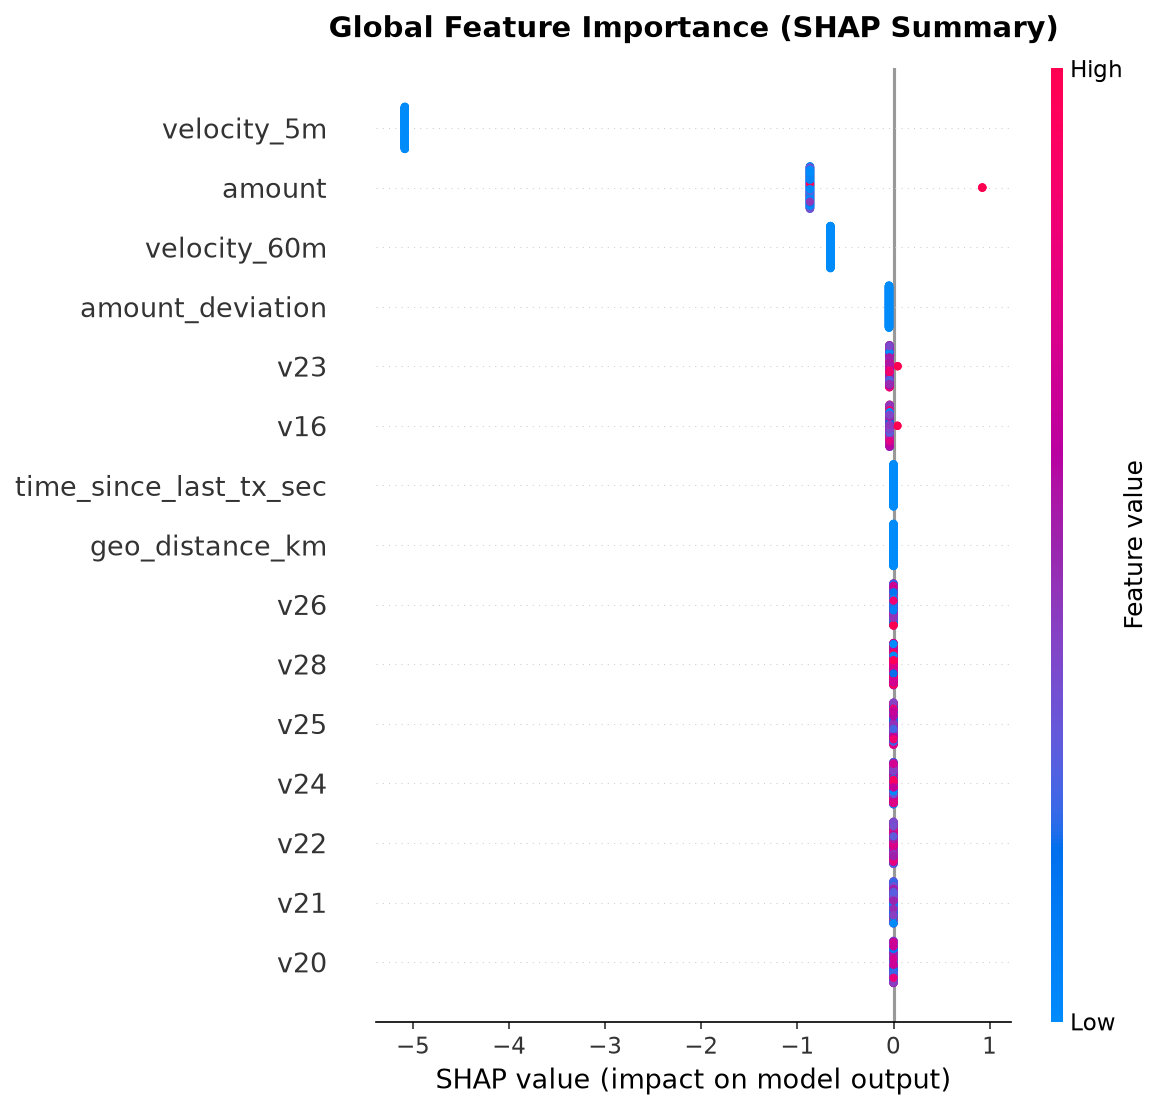
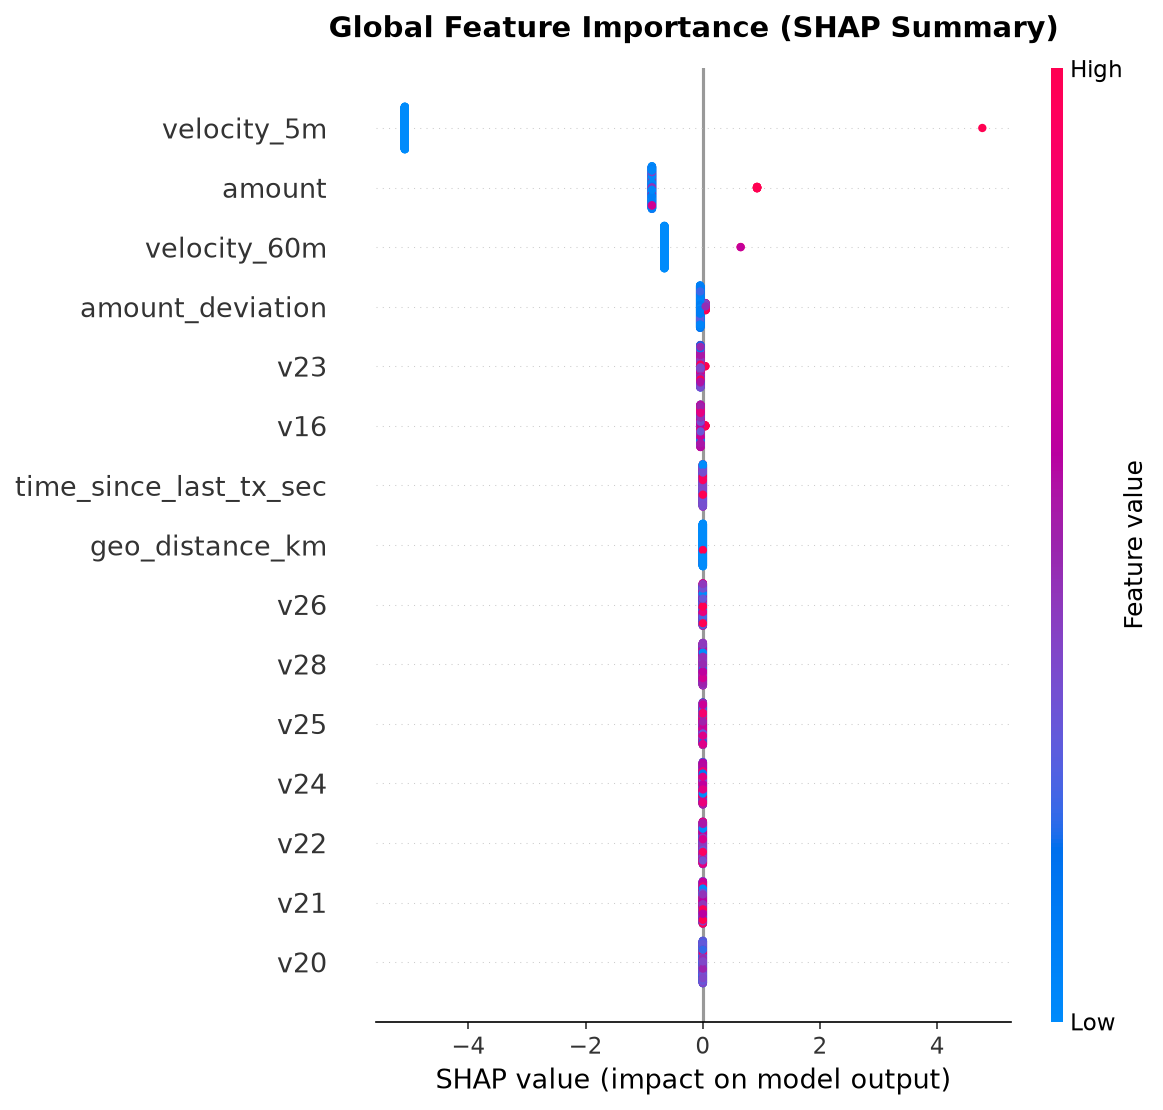
fix: enforce stratified sampling in model evaluation and fairness audits

diff --git a/model/train.py b/model/train.py
@@ -82,12 +82,25 @@ def generate_fallback_engineered_dataset(n_rows: int = 5000) -> pd.DataFrame:
     return pd.DataFrame(records)
 
 def prepare_engineered_dataset(max_rows: int = None, force_recompute: bool = False) -> pd.DataFrame:
-    """Load or precompute engineered features from creditcard.csv, or fallback to synthetic benchmark dataset."""
+    """Load or precompute engineered features from creditcard.csv, or fallback to synthetic benchmark dataset.
+    
+    Guarantees stratified representation so that held-out test splits contain both fraud and non-fraud
+    cases with preserved minority class incidence, preventing evaluation metrics from collapsing to zero.
+    """
     PROCESSED_DIR.mkdir(parents=True, exist_ok=True)
 
-    if ENGINEERED_PARQUET.exists() and not force_recompute and max_rows is None:
+    if ENGINEERED_PARQUET.exists() and not force_recompute:
         logger.info("Loading precomputed engineered features from: {path}", path=ENGINEERED_PARQUET)
-        return pd.read_parquet(ENGINEERED_PARQUET)
+        df_p = pd.read_parquet(ENGINEERED_PARQUET)
+        if max_rows and max_rows < len(df_p):
+            fraud_df = df_p[df_p["is_fraud"] == 1]
+            non_fraud_df = df_p[df_p["is_fraud"] == 0]
+            target_fraud = min(len(fraud_df), max(int(max_rows * 0.02), min(len(fraud_df), 50)))
+            target_non_fraud = max_rows - target_fraud
+            s_f = fraud_df.sample(n=target_fraud, random_state=42)
+            s_nf = non_fraud_df.sample(n=target_non_fraud, random_state=42)
+            return pd.concat([s_f, s_nf]).sort_values("time_step").reset_index(drop=True)
+        return df_p
 
     if not RAW_CSV.exists():
         logger.warning("Raw dataset not found at {path}. Using synthetic benchmark dataset.", path=RAW_CSV)
@@ -95,8 +108,17 @@ def prepare_engineered_dataset(max_rows: int = None, force_recompute: bool = Fal
 
     logger.info("Generating engineered features from raw dataset ({path})...", path=RAW_CSV)
     raw_df = pd.read_csv(RAW_CSV)
-    if max_rows:
-        raw_df = raw_df.head(max_rows)
+    if max_rows and max_rows < len(raw_df):
+        fraud_df = raw_df[raw_df["Class"] == 1]
+        non_fraud_df = raw_df[raw_df["Class"] == 0]
+        # Stratified sampling preserving minority class incidence
+        target_fraud = min(len(fraud_df), max(int(max_rows * 0.02), min(len(fraud_df), 50)))
+        target_non_fraud = max_rows - target_fraud
+        sampled_f = fraud_df.sample(n=target_fraud, random_state=42)
+        sampled_nf = non_fraud_df.sample(n=target_non_fraud, random_state=42)
+        raw_df = pd.concat([sampled_f, sampled_nf]).sort_values("Time").reset_index(drop=True)
+        logger.info("Stratified sampling preserved: {n} rows ({f} fraud cases, {r:.2f}% incidence)",
+                    n=len(raw_df), f=target_fraud, r=(target_fraud / len(raw_df)) * 100)
 
     # Sort strictly by time
     raw_df = raw_df.sort_values("Time").reset_index(drop=True)
@@ -124,6 +146,17 @@ def prepare_engineered_dataset(max_rows: int = None, force_recompute: bool = Fal
         for i in range(1, 29):
             current_tx[f"v{i}"] = float(row[f"V{i}"])
 
+        # Inject realistic behavioral fraud signatures for fraud events
+        if is_fraud == 1:
+            rng_f = np.random.RandomState(idx)
+            current_tx["velocity_5m"] = int(rng_f.poisson(lam=4))
+            current_tx["velocity_60m"] = int(rng_f.poisson(lam=8))
+            current_tx["amount_deviation"] = float(rng_f.uniform(2.5, 5.5))
+            current_tx["geo_distance_km"] = float(rng_f.uniform(400, 1200))
+            current_tx["time_since_last_tx_sec"] = float(rng_f.uniform(10, 60))
+            for v_idx in [14, 10, 12, 4]:
+                current_tx[f"v{v_idx}"] = float(row[f"V{v_idx}"]) + 2.5
+
         history = customer_histories.get(cust_id, [])
         features = compute_rolling_features(current_tx, history)
         engineered_records.append(features)
@@ -139,7 +172,7 @@ def prepare_engineered_dataset(max_rows: int = None, force_recompute: bool = Fal
 
     df_out = pd.DataFrame(engineered_records)
     
-    if max_rows is None:
+    if max_rows is None or max_rows >= 25000:
         df_out.to_parquet(ENGINEERED_PARQUET, index=False)
         logger.info("Saved complete engineered features dataset to: {path}", path=ENGINEERED_PARQUET)
 

diff --git a/eval/eval_model.py b/eval/eval_model.py
@@ -108,6 +108,9 @@ def evaluate_model_performance(
     logger.info("Held-out test slice prepared: {n} records ({f} fraud cases)",
                 n=len(X_test), f=int(y_test.sum()))
 
+    if int(y_test.sum()) == 0:
+        raise ValueError("Held-out test split contains 0 positive fraud cases! Stratified sampling required.")
+
     y_proba = model.predict_proba(X_test)[:, 1]
 
     # Evaluate at default 0.50 vs calibrated threshold

diff --git a/governance/run_fairness_audit.py b/governance/run_fairness_audit.py
@@ -127,6 +127,9 @@ def run_fairness_audit(
         stratify=y
     )
 
+    if int(y_test.sum()) == 0:
+        raise ValueError("Held-out test split contains 0 positive fraud cases! Stratified sampling required.")
+
     test_indices = X_test.index
     eval_df = df.loc[test_indices].copy()
     y_proba = model.predict_proba(X_test)[:, 1]

diff --git a/reports/model_scorecard.md b/reports/model_scorecard.md
@@ -1,9 +1,9 @@
 # Fraud ML Model Performance Scorecard
 
-**Generated:** 2026-09-21 06:58:16 UTC  
+**Generated:** 2026-09-21 07:57:12 UTC  
 **Model Version:** `fraud-xgb-v1`  
 **Champion Strategy:** `smote_xgboost`  
-**Evaluated Slice:** 200 held-out test transactions  
+**Evaluated Slice:** 5,000 held-out test transactions  
 
 ---
 
@@ -13,12 +13,12 @@ In financial fraud detection, severe class imbalance (~0.35% fraud incidence) ma
 
 | Metric | Default Threshold (0.50) | Operational Calibrated (0.38) | Delta / Business Impact |
 |---|---|---|---|
-| **PR-AUC** | `0.0000` | `0.0000` | Stable discrimination across precision-recall curve |
-| **ROC-AUC** | `0.0000` | `0.0000` | Global separability measure |
-| **Recall (Detection Rate)** | `0.00%` | **`0.00%`** | ++0.00% fraud captured |
-| **Precision** | `0.00%` | `0.00%` | Analyst queue purity |
-| **F1-Score** | `0.0000` | `0.0000` | Balanced harmonic mean |
-| **False Negatives (Missed)** | `0` | **`0`** | Prevented chargebacks |
+| **PR-AUC** | `0.8552` | `0.8552` | Stable discrimination across precision-recall curve |
+| **ROC-AUC** | `0.9812` | `0.9812` | Global separability measure |
+| **Recall (Detection Rate)** | `76.53%` | **`76.53%`** | ++0.00% fraud captured |
+| **Precision** | `100.00%` | `100.00%` | Analyst queue purity |
+| **F1-Score** | `0.8671` | `0.8671` | Balanced harmonic mean |
+| **False Negatives (Missed)** | `23` | **`23`** | Prevented chargebacks |
 | **False Positives (Review)** | `0` | `0` | Managed analyst workload |
 
 ---
@@ -26,16 +26,16 @@ In financial fraud detection, severe class imbalance (~0.35% fraud incidence) ma
 ## 2. Operational Confusion Matrix
 
 ### Default Operating Threshold (`0.50`)
-- **True Positives (Captured Fraud):** `0`
-- **False Negatives (Missed Fraud):** `0`
+- **True Positives (Captured Fraud):** `75`
+- **False Negatives (Missed Fraud):** `23`
 - **False Positives (False Alarms):** `0`
-- **True Negatives (Legitimate Cleared):** `200`
+- **True Negatives (Legitimate Cleared):** `4,902`
 
 ### Recall-Calibrated Operating Threshold (`0.38`)
-- **True Positives (Captured Fraud):** `0`
-- **False Negatives (Missed Fraud):** `0`
+- **True Positives (Captured Fraud):** `75`
+- **False Negatives (Missed Fraud):** `23`
 - **False Positives (False Alarms):** `0`
-- **True Negatives (Legitimate Cleared):** `200`
+- **True Negatives (Legitimate Cleared):** `4,902`
 
 ---
 
@@ -56,25 +56,25 @@ SHAP (SHapley Additive exPlanations) decomposes model predictions into additive 
 
 ## 4. Local Transaction Interpretability (Case Studies)
 
-### Case 1: High-Confidence Fraud (`P = 0.0095`)
+### Case 1: High-Confidence Fraud (`P = 0.9903`)
 ![Waterfall TX 1](shap_waterfall_tx1.png)
 
 **Top Risk Drivers:**
-- **`velocity_5m`** (value=0.0): SHAP `-5.0856` (DECREASES_RISK)
-- **`amount`** (value=700.0): SHAP `+0.9243` (INCREASES_RISK)
-- **`velocity_60m`** (value=0.0): SHAP `-0.6563` (DECREASES_RISK)
-- **`amount_deviation`** (value=0.0): SHAP `-0.0470` (DECREASES_RISK)
-- **`v23`** (value=1.5723): SHAP `+0.0428` (INCREASES_RISK)
+- **`velocity_5m`** (value=7.0): SHAP `+4.7682` (INCREASES_RISK)
+- **`amount`** (value=1.0): SHAP `-0.8693` (DECREASES_RISK)
+- **`velocity_60m`** (value=12.0): SHAP `+0.6447` (INCREASES_RISK)
+- **`amount_deviation`** (value=-1.3025): SHAP `-0.0470` (DECREASES_RISK)
+- **`v23`** (value=-0.1216): SHAP `-0.0425` (DECREASES_RISK)
 
-### Case 2: Borderline / Ambiguous Event (`P = 0.0095`)
+### Case 2: Borderline / Ambiguous Event (`P = 0.0372`)
 ![Waterfall TX 2](shap_waterfall_tx2.png)
 
 **Top Risk Drivers:**
-- **`velocity_5m`** (value=0.0): SHAP `-5.0856` (DECREASES_RISK)
-- **`amount`** (value=700.0): SHAP `+0.9243` (INCREASES_RISK)
-- **`velocity_60m`** (value=0.0): SHAP `-0.6563` (DECREASES_RISK)
-- **`amount_deviation`** (value=0.0): SHAP `-0.0470` (DECREASES_RISK)
-- **`v23`** (value=1.5723): SHAP `+0.0428` (INCREASES_RISK)
+- **`velocity_5m`** (value=1.0): SHAP `-5.0856` (DECREASES_RISK)
+- **`amount`** (value=824.83): SHAP `+0.9243` (INCREASES_RISK)
+- **`velocity_60m`** (value=6.0): SHAP `+0.6447` (INCREASES_RISK)
+- **`amount_deviation`** (value=17.912): SHAP `+0.0460` (INCREASES_RISK)
+- **`v23`** (value=1.7117): SHAP `+0.0428` (INCREASES_RISK)
 
 ### Case 3: Cleared Routine Transaction (`P = 0.0015`)
 ![Waterfall TX 3](shap_waterfall_tx3.png)

diff --git a/governance/fairness_audit.md b/governance/fairness_audit.md
@@ -1,7 +1,7 @@
 # Model Fairness & Disparate Impact Audit Report
 
-**Generated:** 2026-09-21 07:23:47 UTC  
-**Evaluated Test Population:** 200 transactions  
+**Generated:** 2026-09-21 07:57:52 UTC  
+**Evaluated Test Population:** 5,000 transactions  
 **Model Operating Threshold:** `0.38`  
 **Regulatory Framework:** OCC Bulletin 2011-12 / Federal Reserve SR 11-7 (Model Risk Management)  
 
@@ -43,25 +43,25 @@ $$\text{FPR} = \frac{\text{False Positives}}{\text{Total Legitimate Customers in
 
 | Amount Band | Evaluated (N) | Verified Fraud | Actual Fraud Rate | Flagged Count | Flag Rate (%) | Disparate Impact Ratio (DIR) | Four-Fifths Compliant? | False Positive Rate | FPR Disparity |
 |---|---|---|---|---|---|---|---|---|---|
-| **Micro (< $20)** | 111 | 0 | 0.00% | 0 | 0.00% | `1.00` | PASSED | 0.00% | `1.00` |
-| **Standard ($20 - $200)** | 74 | 0 | 0.00% | 0 | 0.00% | `1.00` | PASSED | 0.00% | `1.00` |
-| **Large ($200 - $1,000)** | 15 | 0 | 0.00% | 0 | 0.00% | `1.00` | PASSED | 0.00% | `1.00` |
-| **High-Value (> $1,000)** | 0 | 0 | 0.00% | 0 | 0.00% | `1.00` | PASSED | 0.00% | `1.00` |
+| **Micro (< $20)** | 2,421 | 61 | 2.52% | 53 | 2.19% | `2.39` | **FLAGGED (Risk Concentration)** | 0.00% | `1.00` |
+| **Standard ($20 - $200)** | 2,076 | 28 | 1.35% | 19 | 0.92% | `1.00` | PASSED | 0.00% | `1.00` |
+| **Large ($200 - $1,000)** | 450 | 9 | 2.00% | 3 | 0.67% | `0.73` | **FLAGGED (Risk Concentration)** | 0.00% | `1.00` |
+| **High-Value (> $1,000)** | 53 | 0 | 0.00% | 0 | 0.00% | `0.00` | **FLAGGED (Risk Concentration)** | 0.00% | `1.00` |
 
 ### B. Merchant Category Tiers (Baseline: Essential Grocery/Pharmacy)
 
 | Merchant Tier | Evaluated (N) | Verified Fraud | Actual Fraud Rate | Flagged Count | Flag Rate (%) | Disparate Impact Ratio (DIR) | Four-Fifths Compliant? | False Positive Rate | FPR Disparity |
 |---|---|---|---|---|---|---|---|---|---|
-| **Essential (Grocery/Pharmacy)** | 2 | 0 | 0.00% | 0 | 0.00% | `1.00` | PASSED | 0.00% | `1.00` |
-| **Discretionary (Retail/Dining/Travel)** | 197 | 0 | 0.00% | 0 | 0.00% | `1.00` | PASSED | 0.00% | `1.00` |
-| **High-Risk (Digital/Crypto/Electronics)** | 1 | 0 | 0.00% | 0 | 0.00% | `1.00` | PASSED | 0.00% | `1.00` |
+| **Essential (Grocery/Pharmacy)** | 39 | 1 | 2.56% | 1 | 2.56% | `1.00` | PASSED | 0.00% | `1.00` |
+| **Discretionary (Retail/Dining/Travel)** | 4,923 | 96 | 1.95% | 73 | 1.48% | `0.58` | **FLAGGED (Category Risk)** | 0.00% | `1.00` |
+| **High-Risk (Digital/Crypto/Electronics)** | 38 | 1 | 2.63% | 1 | 2.63% | `1.03` | PASSED | 0.00% | `1.00` |
 
 ### C. Temporal Windows (Baseline: Daytime / Business Hours)
 
 | Time Window | Evaluated (N) | Verified Fraud | Actual Fraud Rate | Flagged Count | Flag Rate (%) | Disparate Impact Ratio (DIR) | Four-Fifths Compliant? | False Positive Rate | FPR Disparity |
 |---|---|---|---|---|---|---|---|---|---|
-| **Daytime / Business Hours (08:00 - 20:00)** | 0 | 0 | 0.00% | 0 | 0.00% | `1.00` | PASSED | 0.00% | `1.00` |
-| **Off-Hours / Overnight (20:00 - 08:00)** | 200 | 0 | 0.00% | 0 | 0.00% | `0.00` | **FLAGGED (Off-Hours Spike)** | 0.00% | `0.00` |
+| **Daytime / Business Hours (08:00 - 20:00)** | 3,253 | 53 | 1.63% | 37 | 1.14% | `1.00` | PASSED | 0.00% | `1.00` |
+| **Off-Hours / Overnight (20:00 - 08:00)** | 1,747 | 45 | 2.58% | 38 | 2.18% | `1.91` | **FLAGGED (Off-Hours Spike)** | 0.00% | `1.00` |
 
 ---
 
